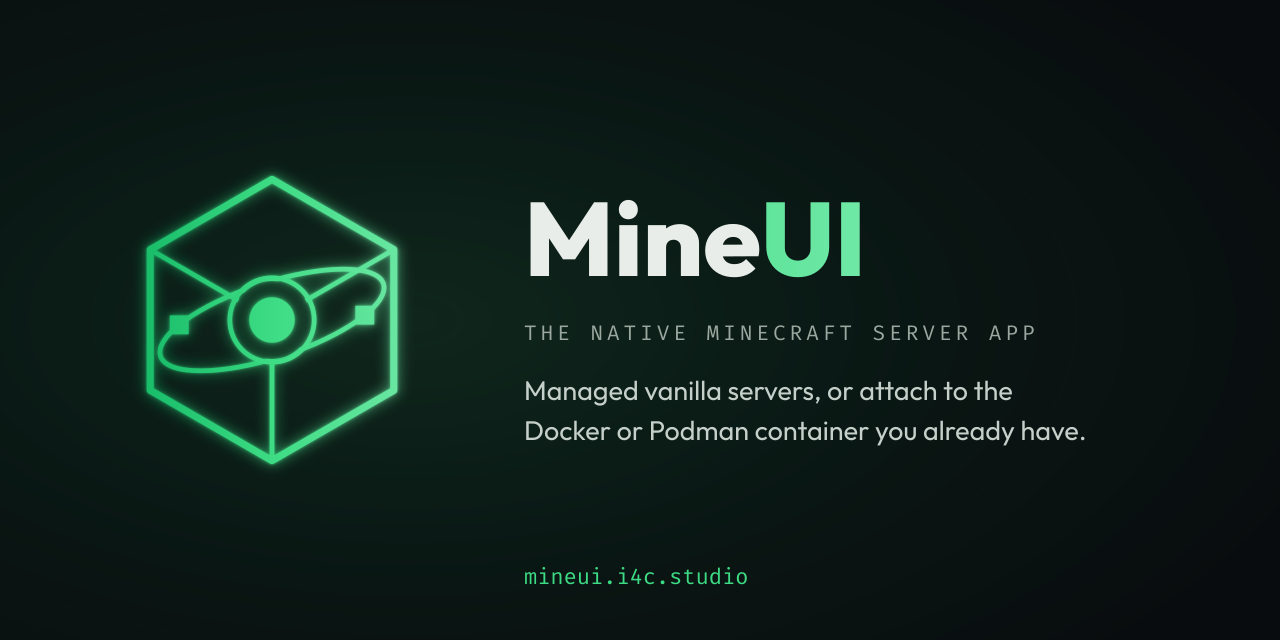
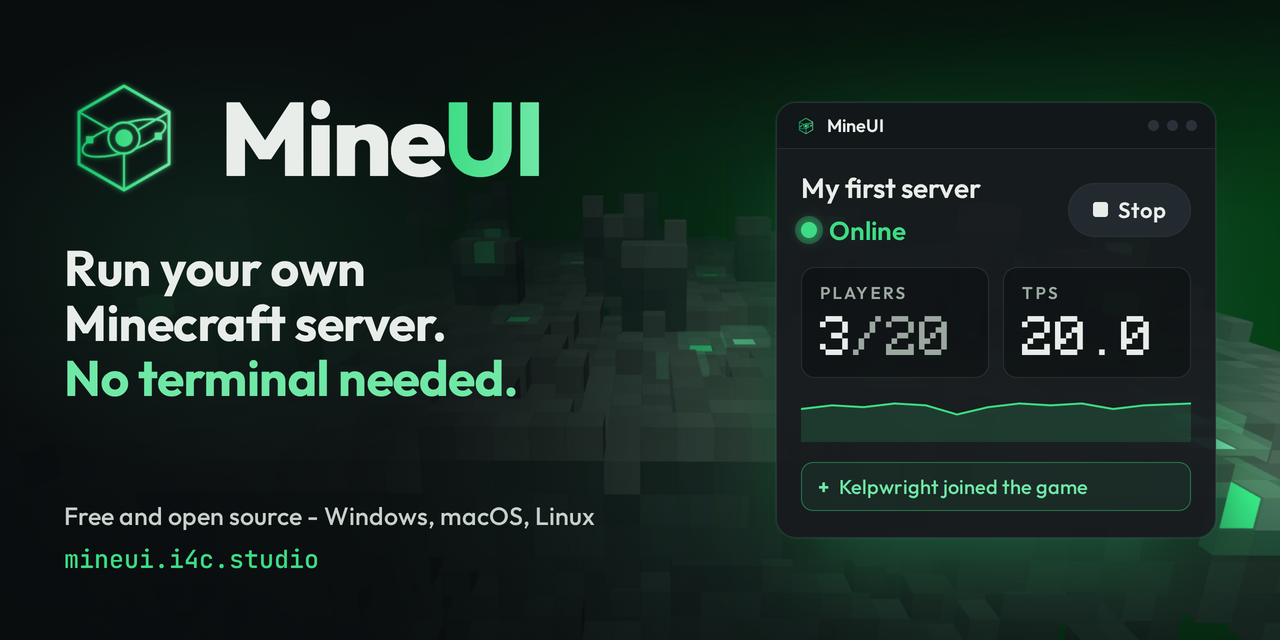
docs: new social card at the top of the README, downloads from the site (#88)
The README opens with the redesigned card (linked to mineui.i4c.studio) in
place of the bare mark, takes the site's headline, and the install table
links each installer through mineui.i4c.studio/download/<key>. The brand
folder gets the new card and the 1280x640 repo preview from i4c-sites.

diff --git a/README.md b/README.md
@@ -1,13 +1,22 @@
 <p align="center">
-  <img src="assets/brand/mark.svg" alt="MineUI" width="120">
+  <a href="https://mineui.i4c.studio">
+    <img src="assets/brand/social-card-1200x630.jpg" alt="MineUI - Run your own Minecraft server. No terminal needed. Free and open source for Windows, macOS and Linux." width="840">
+  </a>
 </p>
 
 <h1 align="center">MineUI</h1>
 
 <p align="center">
-  <b>The desktop app your Minecraft server has been missing.</b><br>
-  Run managed vanilla servers, create modded ones in containers, or attach to the Docker/Podman containers you already have - several at once.<br>
+  <b>Run your own Minecraft server. No terminal needed.</b><br>
+  Start a vanilla server on this computer, create a modded one in a container, or attach to the Docker/Podman containers you already have - several at once.<br>
   One native app. No dashboard to self-host, no local API server.
+</p>
+
+<p align="center">
+  <a href="https://mineui.i4c.studio/#downloads"><b>Download</b></a> &middot;
+  <a href="https://mineui.i4c.studio">Website</a> &middot;
+  <a href="https://mineui.i4c.studio/docs">Docs</a> &middot;
+  <a href="https://mineui.i4c.studio/changelog">Changelog</a>
 </p>
 
 <p align="center">
@@ -58,16 +67,21 @@ number of servers at once, and each one runs in one of two ways:
 
 ## Install
 
-Grab the build for your platform from the
-[latest release](https://github.com/I4cTime/mineui/releases/latest):
+Download the build for your platform from
+[mineui.i4c.studio](https://mineui.i4c.studio/#downloads). Each link below
+always gets the current version:
 
-| Platform | Package |
-| --- | --- |
-| Linux x86_64 | `MineUI_2.13.0_amd64.AppImage` - `chmod +x` and run |
-| Debian/Ubuntu | `MineUI_2.13.0_amd64.deb` - `sudo apt install ./MineUI_2.13.0_amd64.deb` |
-| Windows x64 | `MineUI_2.13.0_x64-setup.exe` |
-| macOS (Apple Silicon) | `MineUI_2.13.0_aarch64.dmg` |
-| macOS (Intel) | `MineUI_2.13.0_x64.dmg` |
+| Platform | Download | Then |
+| --- | --- | --- |
+| Windows x64 | [`MineUI_2.13.0_x64-setup.exe`](https://mineui.i4c.studio/download/windows) | Run the installer |
+| macOS (Apple Silicon) | [`MineUI_2.13.0_aarch64.dmg`](https://mineui.i4c.studio/download/mac-arm) | Open it and drag MineUI to Applications |
+| macOS (Intel) | [`MineUI_2.13.0_x64.dmg`](https://mineui.i4c.studio/download/mac-intel) | Open it and drag MineUI to Applications |
+| Linux x86_64 | [`MineUI_2.13.0_amd64.AppImage`](https://mineui.i4c.studio/download/linux-appimage) | `chmod +x` and run |
+| Debian/Ubuntu | [`MineUI_2.13.0_amd64.deb`](https://mineui.i4c.studio/download/linux-deb) | `sudo apt install ./MineUI_2.13.0_amd64.deb` |
+
+The macOS builds are signed and notarized. Release notes and every earlier
+version are on the
+[Releases page](https://github.com/I4cTime/mineui/releases).
 
 A server On this computer needs Java. If the computer has none that fits
 the Minecraft version you pick, MineUI offers *Get Java for me* and downloads

diff --git a/assets/brand/README.md b/assets/brand/README.md
@@ -2,14 +2,16 @@
 
 Copied from the canonical source in the `i4c-sites` monorepo
 (`apps/mineui`): the mark geometry lives in
-`components/ui/BrandMark.tsx` and the rasters are produced by
-`scripts/gen-brand-assets.mjs` there. Do not edit these files here -
+`components/ui/BrandMark.tsx`, the icon rasters are produced by
+`scripts/gen-brand-assets.mjs` and the two cards by
+`scripts/social-card/build.mjs` there. Do not edit these files here -
 regenerate at the source and re-copy.
 
 - `mark.svg` - full "Ore Cube" voxel mark, Emerald gradient, neon-tube build
 - `mark-small.svg` - simplified cut for ≤48 px (favicons, list icons)
 - `mark-mono.svg` - single-color (#3ddc84) cut
-- `social-card-1200x630.jpg` - Open Graph / link-preview card
+- `social-card-1200x630.jpg` - Open Graph / link-preview card, also the
+  image at the top of the repo README
 - `repo-social-preview.png` - 1280×640, for GitHub → Settings → Social
   preview (manual upload; GitHub has no API for it)
 
